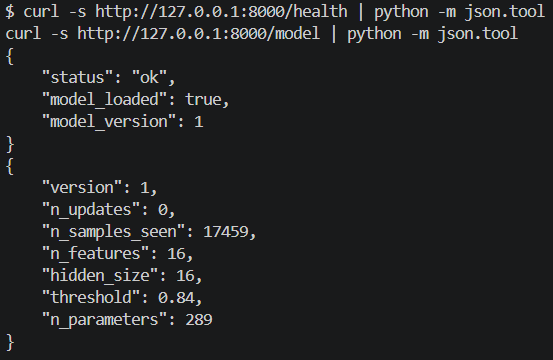
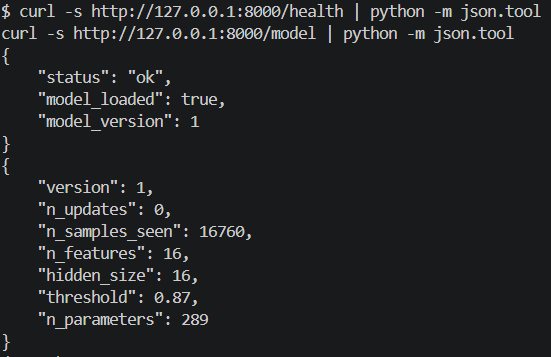
Atualiza baseline v1 para split temporal 2012-2025
- Regenera o checkpoint inicial com treino 2012-2013.
- Calibra o limiar em 2014 e avalia em 2015-2025.
- Versiona model.pt e registry.json consistentes com threshold 0.87.
- Atualiza evidências locais de inicialização, health e predição.

diff --git a/README.md b/README.md
@@ -152,8 +152,8 @@ Exemplo de resposta do `POST /predict`:
 ```json
 {
   "prediction": 0,
-  "probability": 0.7933,
-  "threshold": 0.84,
+  "probability": 0.7506,
+  "threshold": 0.87,
   "model_version": 1,
   "prediction_id": 1
 }
